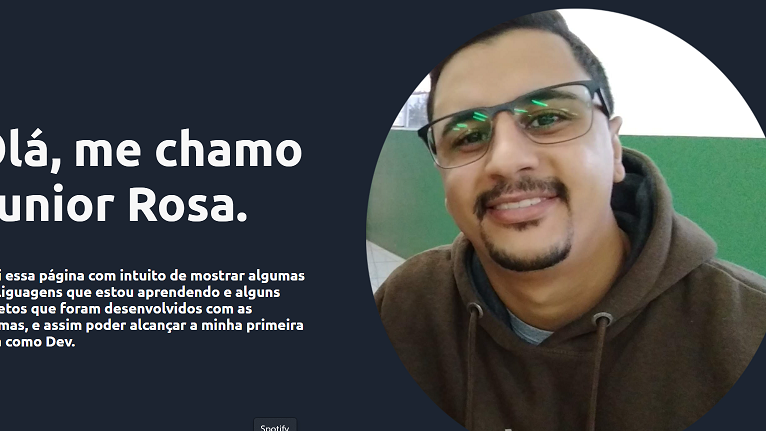
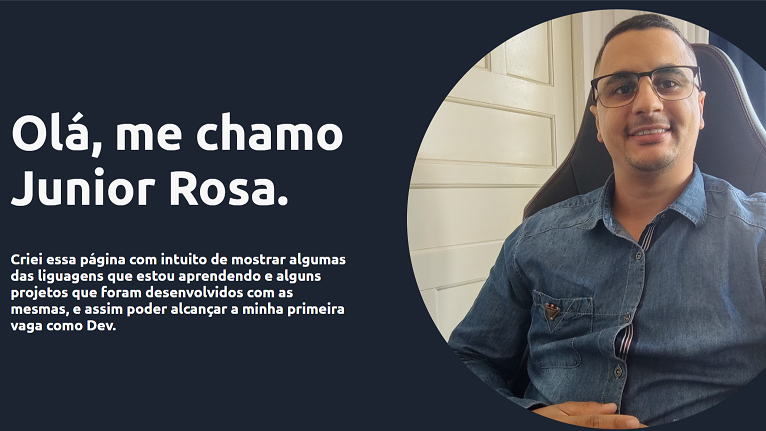
New profile img

diff --git a/index.html b/index.html
@@ -23,7 +23,7 @@
     <main>
         <!-- Profile Section -->
         <section class="profile-container">
-            <img class="profile-img" src="./assets/profile.jpeg" alt="perfile-image">
+            <img class="profile-img" src="./assets/profile.jpg" alt="perfile-image">
             <div class="profile-container-text">
                 <h1 class="profile-h1-text">Olá, me chamo Junior Rosa.</h1>
                 <h2 class="profile-h2-text">Criei essa página com intuito de mostrar algumas das liguagens que estou
